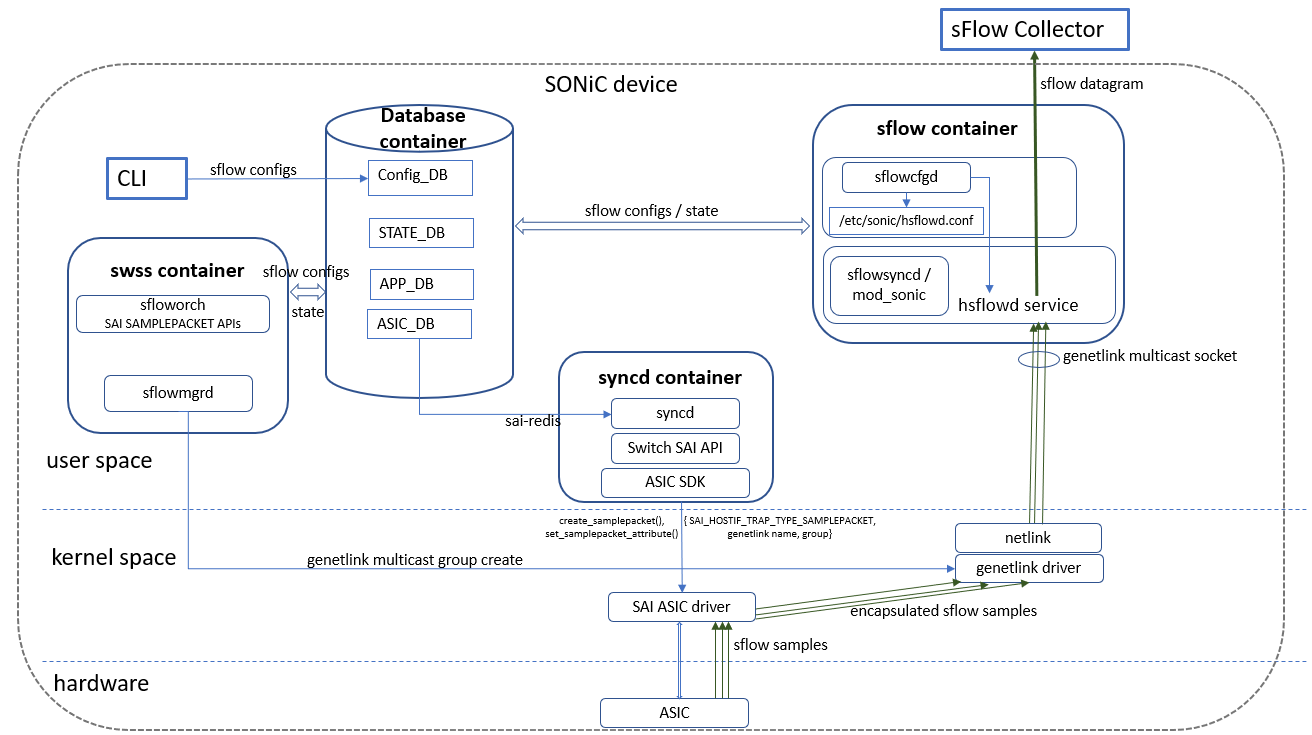
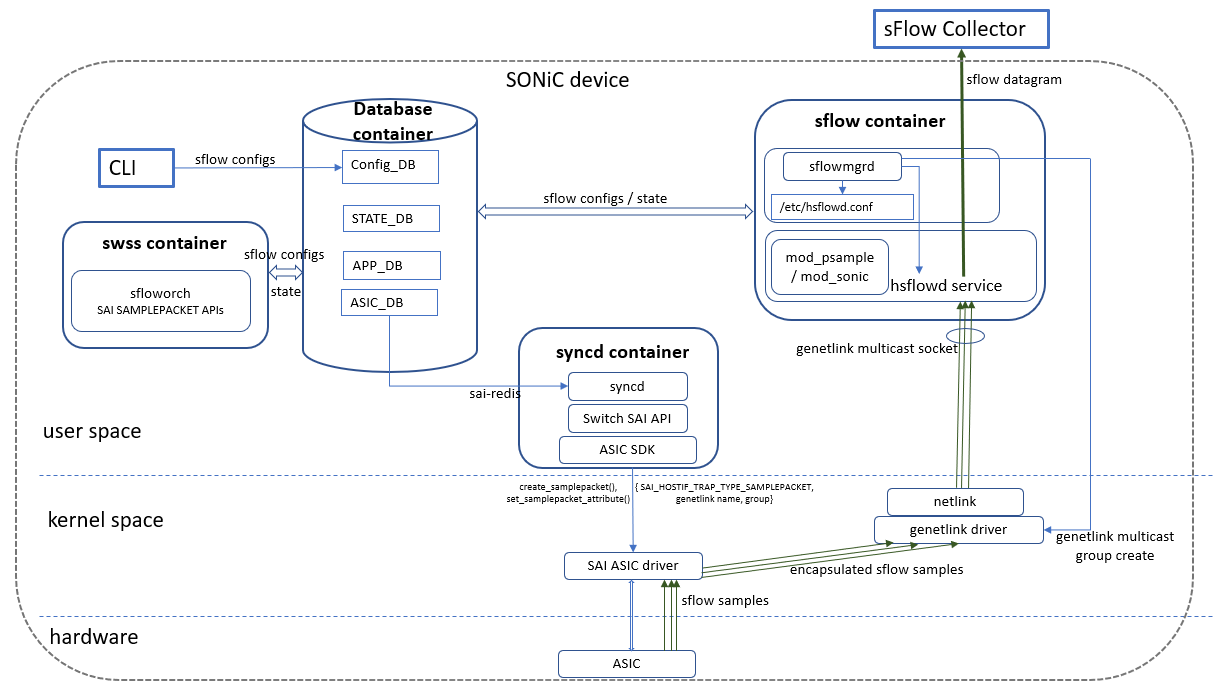
sFlow HLD : update CLI and remove sflowcfgd

diff --git a/doc/sflow/sflow_hld.md b/doc/sflow/sflow_hld.md
@@ -1,5 +1,5 @@
 # sFlow High Level Design
-### Rev 0.2
+### Rev 0.3
 ## Table of Contents
 
 ## 1. Revision 
@@ -7,6 +7,7 @@ Rev | Rev	Date	| Author	| Change Description
 ---------|--------------|-----------|-------------------
 v0.1	 |05/01/2019	|Padmanabhan Narayanan	| Initial version
 v0.2    |05/20/2019  |Padmanabhan Narayanan      | Updated based on internal review comments
+v0.3    |06/11/2019  |Padmanabhan Narayanan      | Update CLIs, remove sflowcfgd, 
 
 ## 2. Scope
 This document describes the high level design of sFlow in SONiC
@@ -80,10 +81,11 @@ The CLI is enhanced to provide configuring and display of sFlow parameters inclu
 
 The newly introduced sflow container consists of:
 * An instantiation of the InMon's hsflowd daemon (https://github.com/sflow/host-sflow described in https://sflow.net/documentation.php). The hsflowd is launched as a systemctl service. The host-sflow is customised to interact with SONiC subsystems by introducing a host-sflow/src/Linux/mod_sonic.c (descripted later)
-* sflowcfgd : which is a python script that consumes sflow configurations from the CONFIG DB and updates the hsflowd.conf
+* sflowmgrd : which is a python script that consumes sflow configurations from the CONFIG DB and:
+       * configure the genetlink family and multicast group for sflow use
+       * updates the hsflowd.conf
 
-The swss container is enhanced to add the following components:
-* sflowmgrd : which subscribes to STATE DB to register and configure the genetlink family and multicast group for sflow use
+The swss container is enhanced to add the following component:
 * sfloworch : which subscribes to the APP DB and acts as southbound interface to SAI for programming the SAI_SAMPLEPACKET sessions, genetlink channel, multicast group and sampling parameters.
 
 The syncd container is enhanced to support the SAI SAMPLEPACKET APIs.
@@ -97,14 +99,14 @@ The sflow container and changes to the existing components to support sflow are 
 ### 6.2 **Configuration and control flow**
 The following figure shows the configuration and control flows for sFlow:
 
-![alt text](../../images/sflow/sflow_config_and_control.png "SONiC sFlow Configuration and Control")
+![alt text](../../images/sflow/SFLOW_and_control.png "SONiC sFlow Configuration and Control")
 
 1. The user configures the sflow collector, agent, sampling related parameters (rate), genetlink parameters (genetlink family and multicast group) and these configurations are added to the CONFIG DB.
-2. The sflowmgrd watches the configDB's SFLOW_GENETLINK table and creates a genetlink family and multicast group. This will eventually be  used by the ASIC SAI driver to punt sFlow samples to hsflowd. Once the genetlink group is created, the sflowmgrd initializes the TRAP_GENETLINK table in the APP Db that contains the trap type (SAI_HOSTIF_TRAP_TYPE_SAMPLEPACKET) and the genetlink channel and group.
-3. The sfloworch processes the TRAP_GENETLINK changes and calls a SAI API that enables the ASIC driver to map the SAI_HOSTIF_TRAP_TYPE_SAMPLEPACKET trap to the specific genetlink channel and group.
-4. The sflowcfgd configuration daemon watches the CONFIG DB's SFLOW_COLLECTOR table and is responsible for updating the /etc/sonic/hsflowd.conf which is the configuration file for hsflowd. Based on the nature of changes, the sflowcfgd may restart the hsflowd service. The hsflowd service uses the collector, UDP port and agent IP information to open sockets to reach the sFlow collectors.
+2. The sflowmgrd watches the configDB's SFLOW_GENETLINK table and creates a genetlink family and multicast group. This will eventually be  used by the ASIC SAI driver to punt sFlow samples to hsflowd. Once the genetlink group is created, the sflowmgrd initializes the SFLOW_GENETLINK_TABLE in the APP Db that contains the trap type (SAI_HOSTIF_TRAP_TYPE_SAMPLEPACKET) and the genetlink channel and group.
+3. The sfloworch processes the SFLOW_GENETLINK_TABLE changes and calls a SAI API that enables the ASIC driver to map the SAI_HOSTIF_TRAP_TYPE_SAMPLEPACKET trap to the specific genetlink channel and group.
+4. The sflowmgrd daemon watches the CONFIG DB's SFLOW_COLLECTOR table and updates the /etc/hsflowd.conf which is the configuration file for hsflowd. Based on the nature of changes, the sflowmgrd may restart the hsflowd service. The hsflowd service uses the collector, UDP port and agent IP information to open sockets to reach the sFlow collectors.
 5. When hsflowd starts, the sonic module (mod_sonic) registered callback for packetBus/HSPEVENT_CONFIG_CHANGED opens a netlink socket for packet reception and registers an sflow sample handler over the netlink socket (HsflowdRx()).
-6. Sampling rate changes are updated in the SFLOW_CONFIG table. The sflowcfgd updates sampling rate changes into SFLOW_TABLE in the App DB. The sfloworch subagent in the orchagent container processes the change to propagate as corresponding SAI SAMPLEPACKET APIs. The sfloworch subagent will query the PORT table in STATE DB to determine the link speeds in order to map the user configured sampling rate (expressed as a percentage) to the port speed specific rate (expressed as 1-in-N samples).
+6. Sampling rate changes are updated in the SFLOW table. The sflowmgrd updates sampling rate changes into SFLOW_TABLE in the App DB. The sfloworch subagent in the orchagent container processes the change to propagate as corresponding SAI SAMPLEPACKET APIs.
 
 
 ### 6.3 **sFlow sample path**
@@ -127,15 +129,15 @@ The following figure shows the sFlow sample packet path flow:
   Also, the **config** and **show** commands would be extended to include the sflow option.
 
 #### Config commands
-* sflow collector \<name> <ipv4-address | ipv6-address> [agent-addr {ipv4-address | ipv6-address}] [port \<number>] [max-datagram-size \<size>]
+* sflow collector \<add|del> \<name> <ipv4-address | ipv6-address> [agent-addr {ipv4-address | ipv6-address}] [port \<number>] [max-datagram-size \<size>]
 
   Where:
   * name is the unique name of the sFlow collector
   * ipv4-address : IP address of the collector in dotted decimal format for IPv4
-  * ipv6-address :  x:x:x:x::x format for IPv6 address of the collector (where :: notation specifies successive hexadecimal fields of zeros)
+  * ipv6-address : x: x: x: x::x format for IPv6 address of the collector (where :: notation specifies successive hexadecimal fields of zeros)
   * agent-addr : 
        * ipv4-address : IP address of the agent in dotted decimal format for IPv4
-       * ipv6-address :  x:x:x:x::x format for IPv6 address of the agent (where :: notation specifies successive hexadecimal fields of zeros)
+       * ipv6-address :  x: x: x: x::x format for IPv6 address of the agent (where :: notation specifies successive hexadecimal fields of zeros)
   * port : specifies the UDP port of the collector (the range is from 0 to 65535. The default is 6343.)
   * max-datagram-size : in bytes (from 400 to 1500 : defaults to 1400)
 
@@ -151,18 +153,10 @@ The following figure shows the sFlow sample packet path flow:
 * sflow sample-rate value
   
   Where
-  * value is a percentage of the bandwidth of the port expressed in bits per second. The value of 0 is used to disable sFlow.
-  * A value of .0001 would yield the following sampling rates:
+  * value is the average number of packets skipped before the sample is taken. As per SAI samplepacket definition : *"The sampling rate specifies random sampling probability as the ratio of packets observed to samples generated. For example a sampling rate of 100 specifies that, on average, 1 sample will be generated for every 100 packets observed."*
+  * The value of 0 is used to disable sFlow.
 
-       sampling.1G = 1 in 1,000
-
-       sampling.10G = 1 in 10,000
-       
-       sampling.40G = 1 in 40,000
-       
-       sampling.100G = 1 in 100,000
-
-* sflow genetlink \<name> \<multicast-group-id>
+* sflow genetlink \<add|del> \<name> \<multicast-group-id>
 
   Where
   * name is the Generic Netlink family name (defaults to psample)
@@ -207,21 +201,21 @@ max_datagram_size                     = 1*4DIGIT                         ; MTU o
 collector_name                        = 1*16VCHAR
 ```
 
-A new SFLOW_CONFIG table would be added.
+A new SFLOW table would be added.
 ```
-; Defines schema for SFLOW_CONFIG table which holds global configurations
-key                                   = SFLOW_CONFIG:Config
+; Defines schema for SFLOW table which holds global configurations
+key                                   = SFLOW:Config
 ; field                               = value
 sampling_rate       = 1*5DIGIT      ; 1 / (sflow sampling rate as a percentage of bandwidth)
 ```
 
 #### AppDB & Schema
 
-A new TRAP_GENETLINK table entry would be added:
+A new SFLOW_GENETLINK_TABLE table entry would be added:
 
 ```
-; Defines schema for TRAP_GENETLINK table which maps trap types that need to be punted to a genetlink channel
-key                                   = TRAP_GENETLINK:trap_id             ; TRAP ID
+; Defines schema for SFLOW_GENETLINK_TABLE table which maps trap types that need to be punted to a genetlink channel
+key                                   = SFLOW_GENETLINK_TABLE:trap_id             ; TRAP ID
 ; field                               = value
 genetlink_name                        = 1*16VCHAR                          ; name of the genetlink family
 genetlink_group                       = 1*4DIGIT                           ; genetlink multicast group id
@@ -253,11 +247,13 @@ hsflowd_state                         = "" / "started" / "stopped" / "listening"
 
 hsflowd (https://github.com/sflow/host-sflow) is the most popular open source implementation of the sFlow agent and provides support for DNS-SD (http://www.dns-sd.org/) and can be dockerised. hsflowd supports sFlow version 5 (https://sflow.org/sflow_version_5.txt which supersedes RFC 3176). hsflowd will run as a systemd service within the sflow docker.
 
-CLI configurations will be saved to the ConfigDB. Once the genetlink channel has been initialised and the sFlow traps mapped to the genetlink group, the hsflowd service is started. The service startup script will derive the /etc/sonic/hsflowd.conf from the ConfigDB. Config changes will necessitate restart of hsflowd. hsflowd provides the necessary statistics for the "show" commands. CLI "config" commands will retrieve the entries in the config DB.
+CLI configurations will be saved to the ConfigDB. Once the genetlink channel has been initialised and the sFlow traps mapped to the genetlink group, the hsflowd service is started. The service startup script will derive the /etc/hsflowd.conf from the ConfigDB. Config changes will necessitate restart of hsflowd. hsflowd provides the necessary statistics for the "show" commands. CLI "config" commands will retrieve the entries in the config DB.
 
-#### sflowcfgd
+#### sflowmgrd
 
-the sflowcfgd daemon listens to SFLOW_COLLECTOR to construct the hsflowd.conf and start the hsflowd service.
+The sflowmgrd reads the SFLOW_GENETLINK table to create program genetlink groups that will be used by the SAI driver to lift packets to the hsflowd. Once the genetlink group is created, updates the SFLOW_GENETLINK_TABLE table for sFlowOrch to process. A multicast group is typically created which enables multiple applications (e.g. even a local netlink sniffer tools) to additionally inspect the samples that are lifted to hsflowd.
+
+the sflowmgrd daemon listens to SFLOW_COLLECTOR to construct the hsflowd.conf and start the hsflowd service.
 The mapping between the SONiC sflow CLI parameters and the host-sflow is given below:
 
 SONIC CLI parameter| hsflowd.conf equivalent
@@ -272,23 +268,23 @@ The master list of supported host-sflow tokens are found in host-sflow/src/Linux
 
 Example SONiC CLI configuration:
 
-&#35; sflow collector sflow-a 10.100.12.13 agent-addr 10.0.0.10 max-datagramsize 1500
+&#35; sflow collector add sflow-a 10.100.12.13 agent-addr 10.0.0.10 max-datagramsize 1500
 
-&#35; sflow collector sflow-b 10.144.1.2 pot 6344
+&#35; sflow collector add sflow-b 10.144.1.2 pot 6344
 
-&#35; sflow sample-rate .0001
+&#35; sflow sample-rate 32768
 
 ```
 sflow {
   agentIP = 10.0.0.10
-  sampling = 40000
+  sampling = 32748
   collector { ip = 10.100.12.13 }
   collector { ip = 10.144.1.2 UDPPort=6344 }
   datagramBytes = 1500
 }
 ```
 
-sflowcfgd also listens to SFLOW_CONFIG to propogate the sampling rate changes to App DB SFLOW_TABLE.
+sflowmgrd also listens to SFLOW to propogate the sampling rate changes to App DB SFLOW_TABLE.
 
 #### hsflowd service
 
@@ -306,13 +302,9 @@ Refer to host-sflow/src/Linux/hsflowd.h for a list of events.
 
 ### 6.7 **SWSS and syncd changes**
 
-### sflowmgrd
-
-The sflowmgrd reads the SFLOW_GENETLINK table to create program genetlink groups that will be used by the SAI driver to lift packets to the hsflowd. Once the genetlink group is created, updates the TRAP_GENETLINK table for sFlowOrch to process. A multicast group is typically created which enables multiple applications (e.g. even a local netlink sniffer tools) to additionally inspect the samples that are lifted to hsflowd.
-
 ### sFlowOrch
 
-An sFlowOrch is introduced in the Orchagent to handle configuration requests. The sFlowOrch essentially facilitates the creation/deletion of samplepacket sessions as well as get/set of session specific attributes. sFlowOrch tracks the TRAP_GENETLINK table to set the genetlink host interface that is to be used by the SAI driver to deliver the samples.
+An sFlowOrch is introduced in the Orchagent to handle configuration requests. The sFlowOrch essentially facilitates the creation/deletion of samplepacket sessions as well as get/set of session specific attributes. sFlowOrch tracks the SFLOW_GENETLINK_TABLE table to set the genetlink host interface that is to be used by the SAI driver to deliver the samples.
 
 Also, it monitors the SFLOW_TABLE and PORT state to determine sampling rate / speed changes to derive and set the sampling rate for all the interfaces. It uses the SAI samplepacket APIs to set each ports's sampling rate.
 
@@ -447,13 +439,18 @@ sai_create_hostif_table_entry_fn(&host_table_entry, 4, sai_host_table_attr);
 
 It is assumed that the trap group and the trap itself have been defined using sai_create_hostif_trap_group_fn() and sai_create_hostif_trap_fn().
 
-## 7 **Build**
+## 7 **sFlow in Virtual Switch**
+
+On the SONiC VS, SAI calls would map to the tc_sample commands on the switchport interfaces (http://man7.org/linux/man-pages/man8/tc-sample.8.html).
+
+## 8 **Build**
 
 * The host-sflow package will be built with the mod_sonic callback implementations using the FEATURES="SONIC" option
 
-## 8 **Restrictions**
-* /etc/sonic/hsflowd.conf should not be modified manually. While it should be possible to change /etc/sonic/hsflowd.conf manually and restart the sflow container, it is not recommended.
+## 9 **Restrictions**
+* /etc/hsflowd.conf should not be modified manually. While it should be possible to change /etc/hsflowd.conf manually and restart the sflow container, it is not recommended.
 * Management VRF support: TBD
 * configuration updates will necessitate hsflowd service restart
 
-## 9 **Action items**
+## 10 **Action items**
+* Unit Test cases
